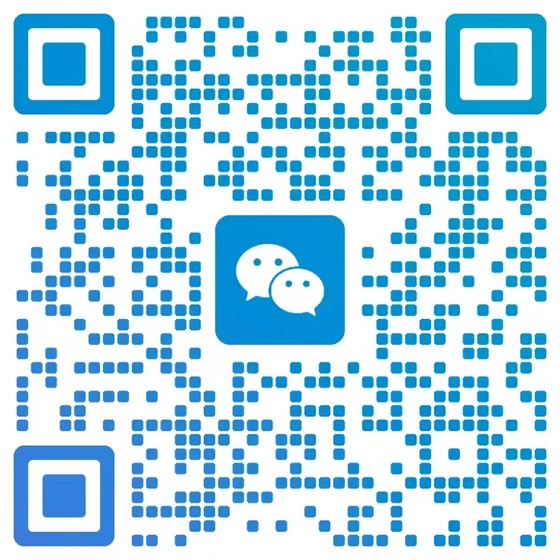
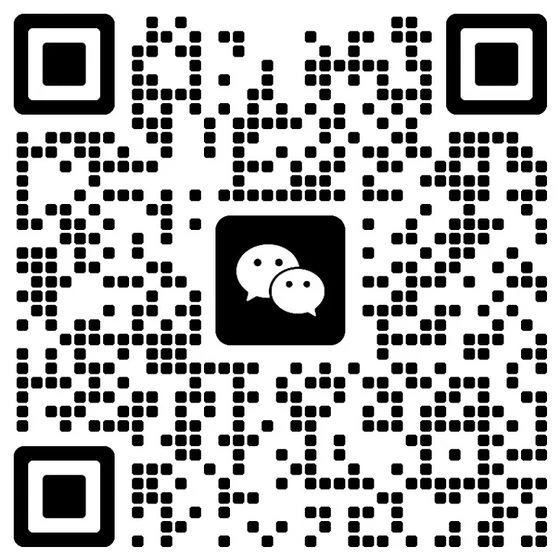
换成黑色二维码；首屏二维码右移

diff --git a/styles.css b/styles.css
@@ -232,7 +232,7 @@ img { max-width: 100%; display: block; }
   flex-direction: column;
   align-items: center;
   gap: 6px;
-  margin-left: 6px;
+  margin-left: clamp(24px, 6vw, 96px);
   padding: 8px 8px 7px;
   background: #fff;
   border-radius: 16px;
@@ -242,6 +242,10 @@ img { max-width: 100%; display: block; }
 }
 
 .hero-qr:hover { transform: translateY(-3px); }
+
+@media (max-width: 720px) {
+  .hero-qr { margin-left: 0; }
+}
 
 .hero-qr img {
   display: block;
